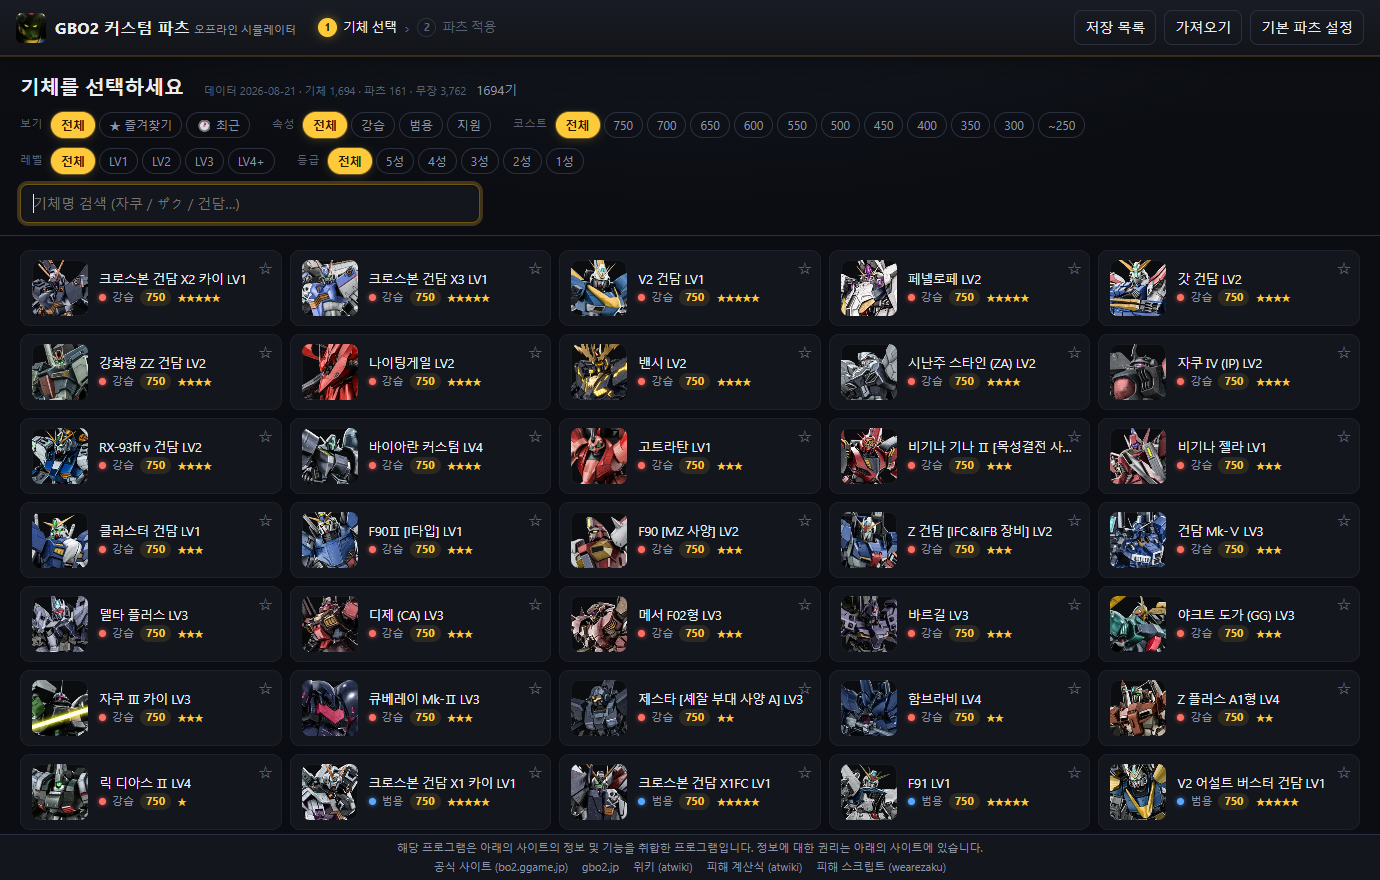
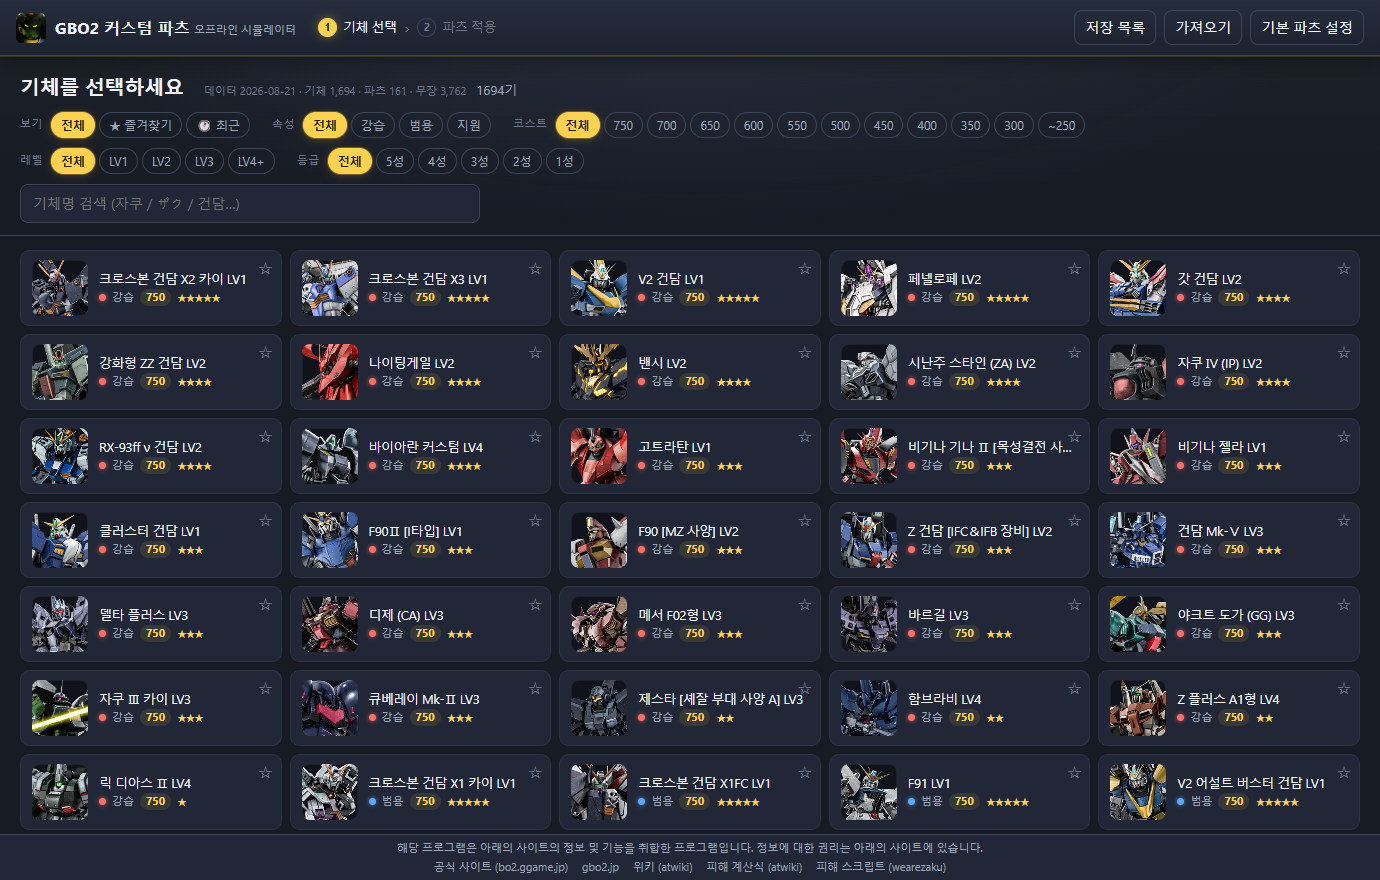
개선(UI 4): 밝은 톤업 — 슬레이트 베이스로 가볍고 밝게 (과감한 방향)
- near-black → 슬레이트(bg #171b24, 패널 톤업), 텍스트/강조 밝게
- 상단 라이트 글로우 강화로 공기감, 밝은 청록 데이터색
- 하드코딩 어두운 배경(썸네일·미터 트랙) 톤업, 선택 카드 워시 조정
- 데스크톱·모바일 스크린샷 확인, 오류 0
- design-preview after 이미지 갱신(밝은 버전)

diff --git a/src/style.css b/src/style.css
@@ -1473,3 +1473,40 @@ input:focus, select:focus, textarea:focus {
 
 /* 스텝 활성 번호 — 은은한 발광 */
 .stepper li[data-step].on i { box-shadow: 0 0 10px rgba(255, 202, 58, .45); }
+
+/* ============================================================
+   밝은 톤업 (더 과감하게) — near-black → 슬레이트 + 밝은 강조로 '가볍고 밝은' 느낌
+   ============================================================ */
+:root {
+  --bg: #171b24;
+  --panel: #212736;
+  --panel-2: #29303f;
+  --panel-3: #333b4d;
+  --line: #3c4557;
+  --line-soft: #2b3243;
+  --text: #f2f4f9;
+  --muted: #9ca5b8;
+  --dim: #6e7789;
+  --accent: #ffd24d;
+  --accent-dim: #7d6318;
+  --info: #63b0ff;
+  --data: #3fd0cf;
+  --good: #63dc92;
+}
+
+/* 배경 — 더 뚜렷한 상단 라이트 글로우로 공기감 */
+body {
+  background-color: var(--bg);
+  background-image:
+    radial-gradient(1200px 560px at 50% -12%, rgba(120, 150, 215, .16), transparent 60%),
+    linear-gradient(180deg, rgba(255, 255, 255, .022), transparent 200px);
+  background-attachment: fixed;
+}
+
+/* 툴바 — 살짝 밝은 슬레이트 + 앰버 라인 유지 */
+.topbar { background: linear-gradient(180deg, #262d3d, #1c222e); }
+
+/* 어두운 하드코딩 배경들을 톤업 (썸네일·미터 트랙 등) */
+.ms-card img, .part-tile img, .eq img, .heroImg, #heroImg { background: #10131b; }
+.meter { background: #171c26; }
+.ms-card.sel { background: #211d10; }
